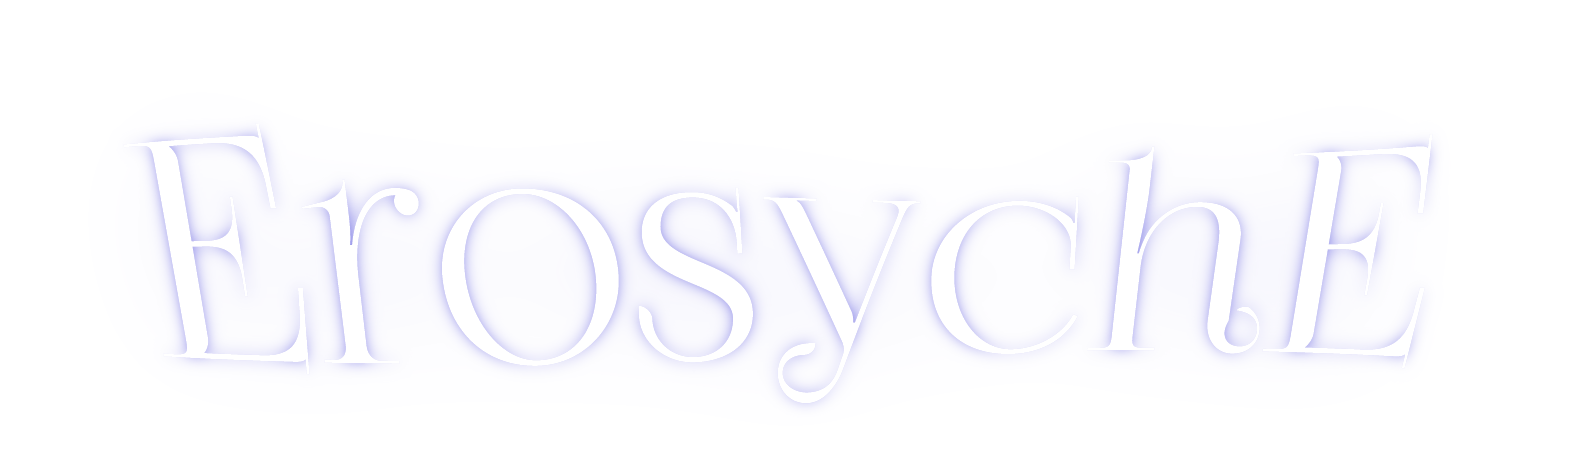
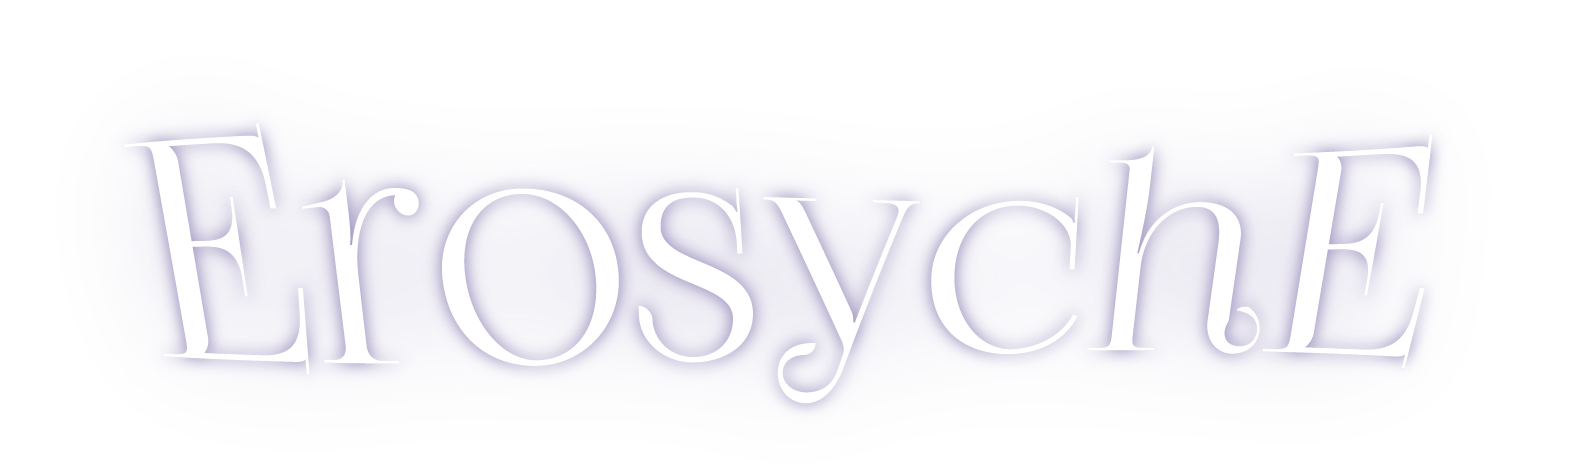
Eros

diff --git a/glassheart.html b/glassheart.html
@@ -111,12 +111,19 @@
             The final type of gameplay is still up in the air, but I might do an RPG battle system for cases where characters need to fend against witches and other foes, but we'll see.
             <br><br>
             There's also going to be dress-up game elements but those aren't as important. I just want to create a lot of pretty outfits for the characters. It's very self-indulgent.
-            <br><br>
-            To go to the next line of dialogue LEFT CLICK or PRESS SPACE. The wand disappears when the mouse isn't moved for a more immersive experience.
+            <br><br>    </p>
+
+            <h1 class="about">Controls</h1>
+
+            <p> To go to the next line of dialogue LEFT CLICK or PRESS SPACE. The wand disappears when the mouse isn't moved for a more immersive experience.
             <br><br>
             To open the menu RIGHT CLICK. There you can enable Auto Read as we as changing the scroll speed and other dialogue options.  
+            This is also where you'll also be able to SAVE and LOAD the game.
             <br><br>
             To view your history PRESS H and to close your history PRESS H AGAIN.
+            <br><br>
+            To navigate within exploration mode LEFT CLICK the left side of the screen to move left and LEFT CLICK the right side of the screen to move right.
+            When the wand sparkles it means you can interact with the object. This might mean going to another room or inspecting an object closer.
             </p>
 
         <h1 class="about">characters</h1>   
@@ -348,7 +355,7 @@ body {
 }
 
 .header {
-    background-image: url('assets/pictures/banner.png');
+    background-image: url('assets/pictures/banner2.png');
     background-size: cover;
     border-radius: 50px 50px 0 0; 
     width: 100%;

diff --git a/eros.html b/eros.html
@@ -290,7 +290,7 @@ body {
 }
 
 .header {
-    background-image: url('assets/pictures/banner.png');
+    background-image: url('assets/pictures/banner3.png');
     background-size: cover;
     border-radius: 50px 50px 0 0; 
     width: 100%;
